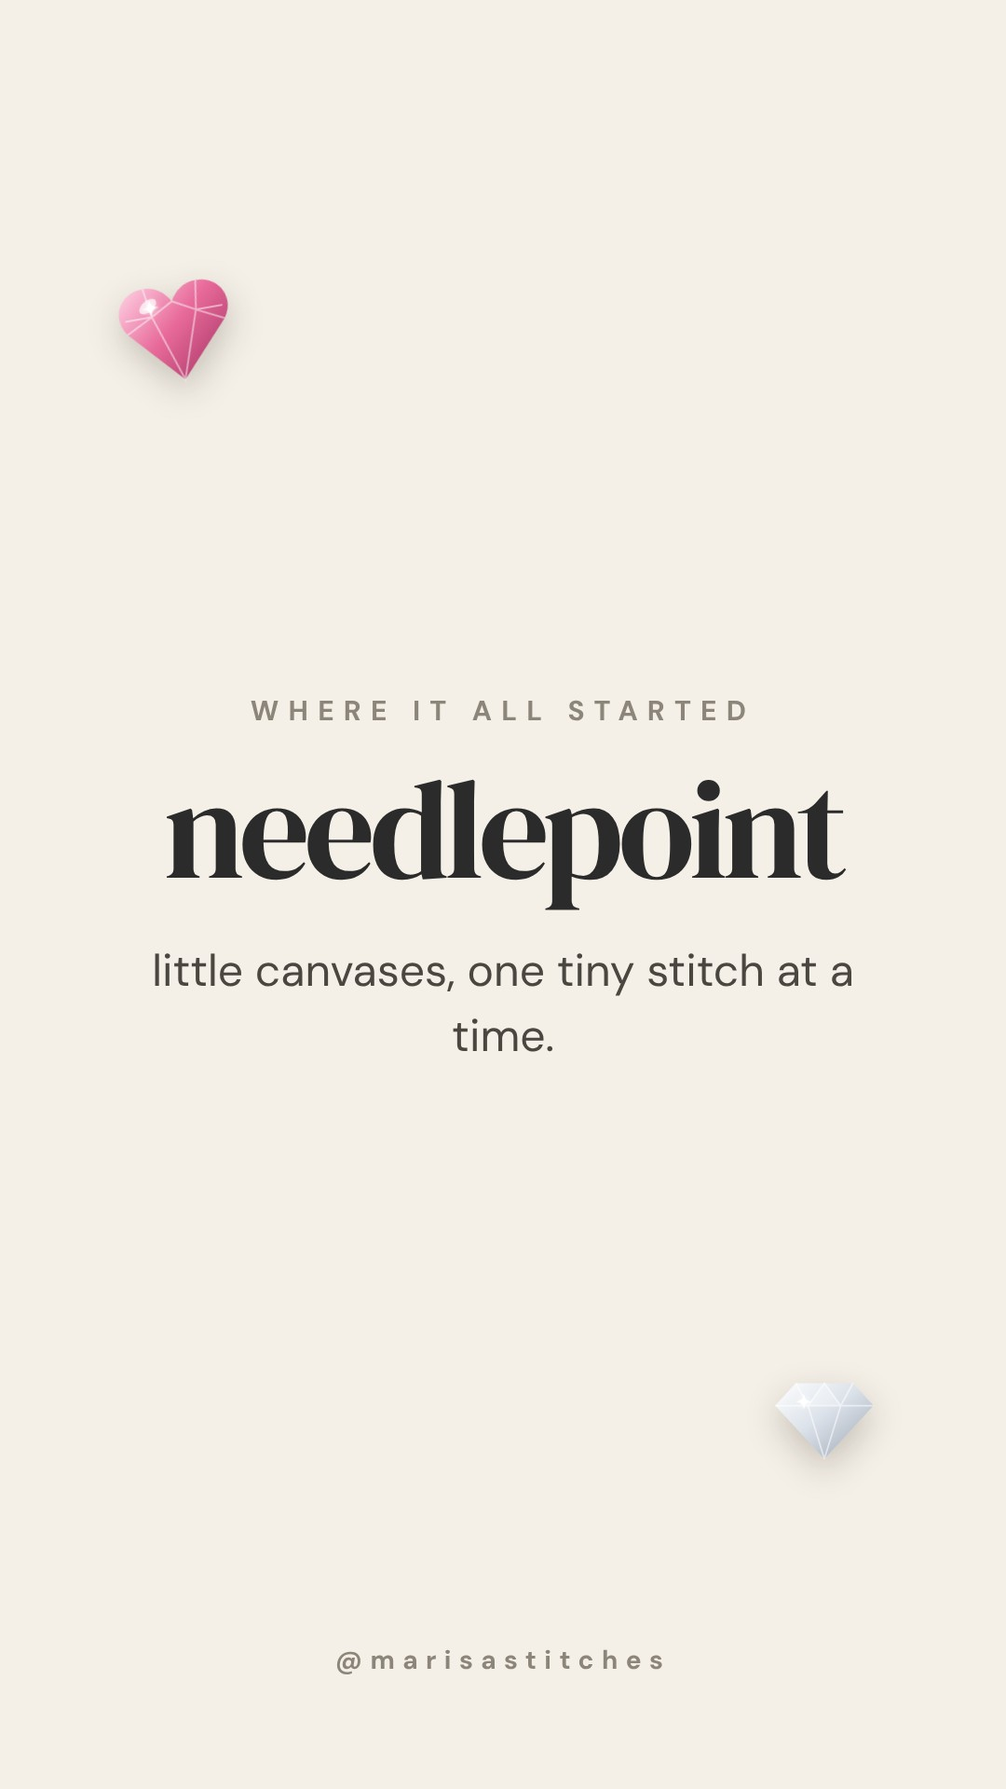
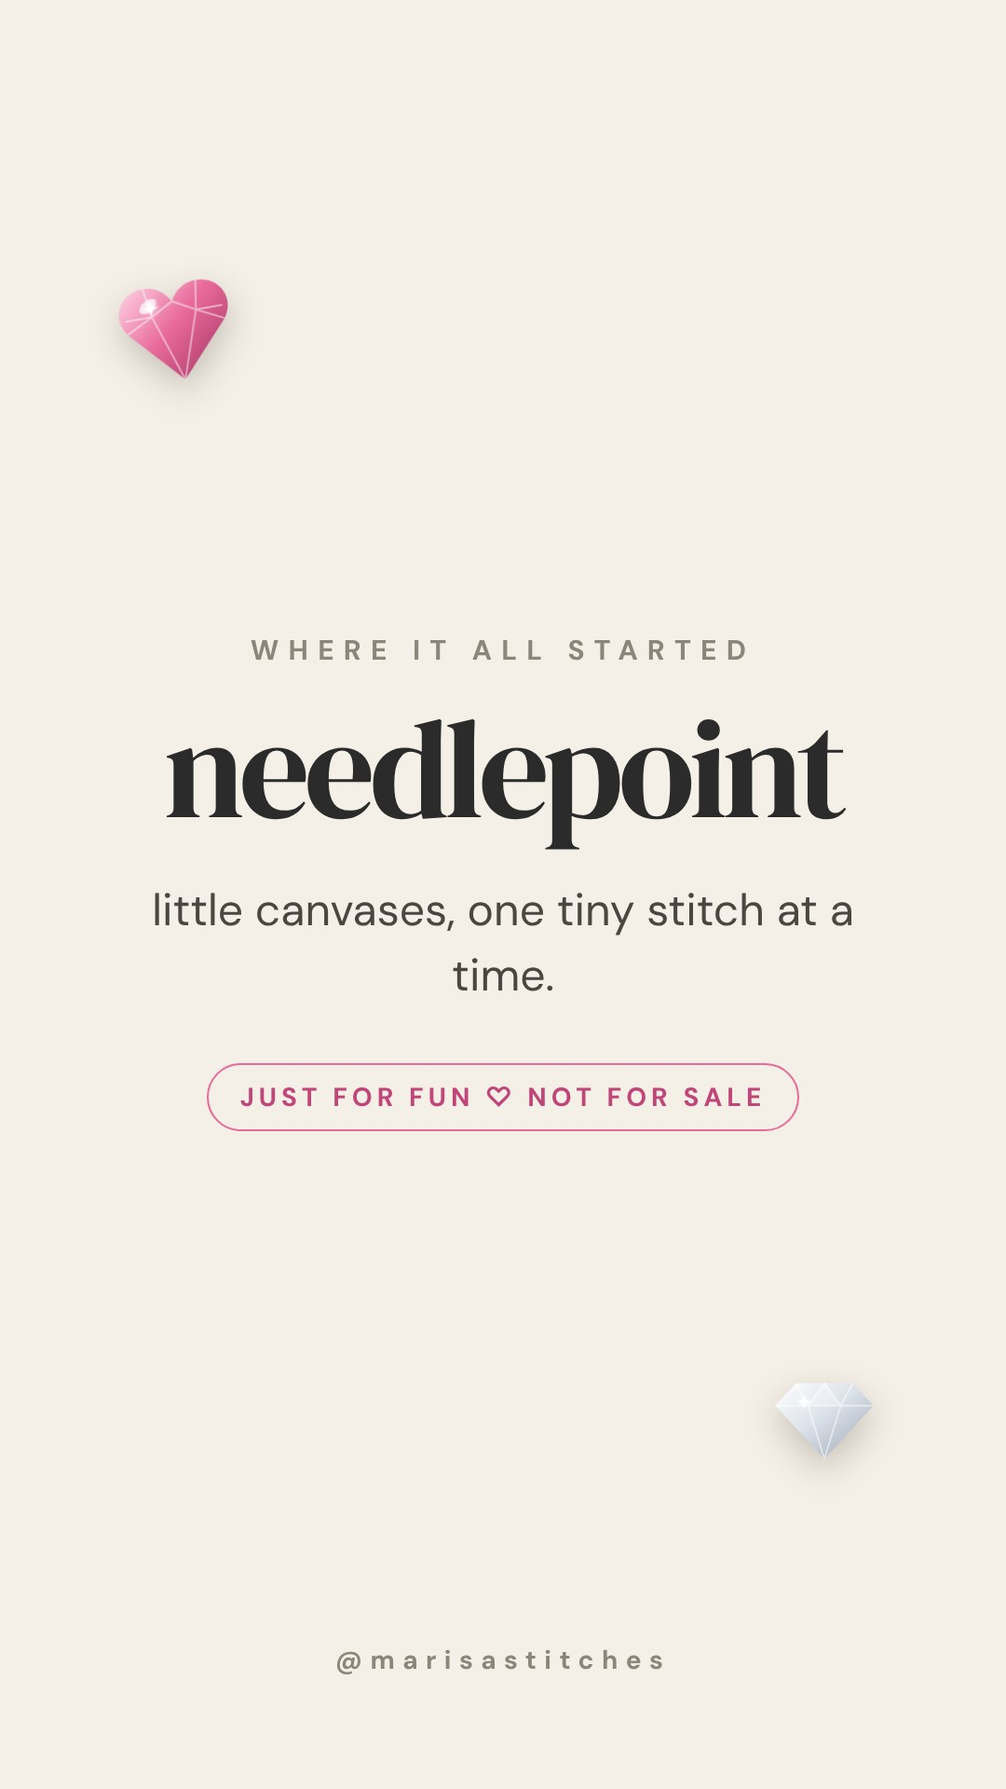
Stitches: 'just for fun, not for sale' on hobby highlights; account positioning in plan
Claude-Session: https://claude.ai/code/session_01CeoovJ21APbX2P2SCMoWFW

Changed region(s): [[0.1528, 0.3438, 0.8556, 0.625]]

diff --git a/stitches/highlights/stories.html b/stitches/highlights/stories.html
@@ -17,6 +17,7 @@
 .st .price b{display:block;font:400 150px/1 'DM Serif Display';color:#E86A9A}
 .st .price span{font:400 42px/1.4 'DM Sans'}
 .st .q{font:400 96px/1.08 'DM Serif Display';letter-spacing:-.03em;margin:0 0 50px}
+.st .tag{display:inline-block;margin-top:30px;padding:16px 34px;border:2px solid #E86A9A;border-radius:999px;font:700 28px 'DM Sans';letter-spacing:.18em;text-transform:uppercase;color:#C2457A}
 .stk{position:absolute;left:0;right:0;bottom:300px;font:700 26px 'DM Sans';letter-spacing:.2em;text-transform:uppercase;color:#B9B2A6;z-index:2}
 .ft{position:absolute;left:0;right:0;bottom:120px;font:700 28px 'DM Sans';letter-spacing:.3em;color:#8C857A}
 .ido.dark{background:#2A241F radial-gradient(circle at 50% 40%,#43362C,#2A241F 70%);color:#FBF7F0}
@@ -65,11 +66,11 @@
 <section id="s24" data-f="i-do/05_Kind-Words" data-n="1" class="s ido dark"><div class="frame"></div><div class="in"><p class="ik">kind words</p><p class="iq">“There is absolutely<br>no one better.”</p><p class="ip" style="font-size:46px">— Nick &amp; Hannah</p></div><div class="ft ido">@idobymarisa</div></section>
 <section id="s25" data-f="i-do/05_Kind-Words" data-n="2" class="s ido blush"><div class="frame"></div><div class="in"><p class="ik">kind words</p><p class="iq">“She made everyone laugh,<br>and you felt in on the<br>couple’s inside jokes!”</p><p class="ip" style="font-size:46px">— Catherine O’Gorman</p></div><div class="ft ido">@idobymarisa</div></section>
 <section id="s26" data-f="crafts/covers" data-n="05_needlepoint" class="s st"><div class="in" style="display:flex;flex-direction:column;align-items:center"><div style="position:relative;width:250px;height:357px"><svg viewBox="0 0 70 100" width="250" style="position:absolute;left:0px;top:0px;transform:rotate(0deg);filter:drop-shadow(0 14px 18px rgba(40,30,20,.22));overflow:visible"><defs><linearGradient id="g23" x1="0" y1="0" x2="1" y2="1"><stop offset="0" stop-color="#FFB3BF"/><stop offset=".45" stop-color="#C8203E"/><stop offset="1" stop-color="#6E0E21"/></linearGradient></defs><path d="M35 2C52 24 68 46 68 64a33 33 0 0 1-66 0C2 46 18 24 35 2z" fill="url(#g23)"/><path d="M35 2v62M35 64 6 52M35 64l29-12M35 64 14 88M35 64l21 24" stroke="#fff" stroke-opacity=".45" stroke-width="1.4"/><ellipse cx="22" cy="44" rx="6" ry="12" fill="#fff" fill-opacity=".45" transform="rotate(20 22 44)"/><g transform="translate(30 22) scale(.8)" style="filter:drop-shadow(0 0 4px #fff)"><path d="M0-10C1-3 3-1 10 0 3 1 1 3 0 10-1 3-3 1-10 0-3-1-1-3 0-10z" fill="#fff"/></g></svg></div><div style="font:400 150px/1 'DM Serif Display';letter-spacing:-.04em;margin-top:60px">needlepoint</div></div></section>
-<section id="s27" data-f="stitches/../crafts/stories/05_needlepoint" data-n="1" class="s st"><svg viewBox="0 0 100 92" width="120" style="position:absolute;left:130px;top:300px;transform:rotate(-10deg);filter:drop-shadow(0 14px 18px rgba(40,30,20,.22));overflow:visible"><defs><linearGradient id="g24" x1="0" y1="0" x2="1" y2="1"><stop offset="0" stop-color="#FFD3E4"/><stop offset=".45" stop-color="#E86A9A"/><stop offset="1" stop-color="#9E2E5F"/></linearGradient></defs><path d="M50 90 6 42C-6 26 4 4 26 4c11 0 19 6 24 15C55 10 63 4 74 4c22 0 32 22 20 38z" fill="url(#g24)"/><path d="M50 90 30 30 50 19 70 30zM6 42l24-12L26 4M94 42 70 30 74 4M30 30H6M70 30h24" fill="none" stroke="#fff" stroke-opacity=".5" stroke-width="1.6"/><ellipse cx="28" cy="20" rx="9" ry="5" fill="#fff" fill-opacity=".7" transform="rotate(-30 28 20)"/><g transform="translate(30 22) scale(.8)" style="filter:drop-shadow(0 0 4px #fff)"><path d="M0-10C1-3 3-1 10 0 3 1 1 3 0 10-1 3-3 1-10 0-3-1-1-3 0-10z" fill="#fff"/></g></svg><svg viewBox="0 0 100 80" width="110" style="position:absolute;left:830px;top:1480px;transform:rotate(0deg);filter:drop-shadow(0 14px 18px rgba(40,30,20,.22));overflow:visible"><defs><linearGradient id="g25" x1="0" y1="0" x2="1" y2="1"><stop offset="0" stop-color="#FFFFFF"/><stop offset=".45" stop-color="#DCE2EA"/><stop offset="1" stop-color="#9AA4B2"/></linearGradient></defs><path d="M22 4h56l20 22-48 52L2 26z" fill="url(#g25)"/><path d="M2 26h96M22 4l12 22 16 52M78 4 66 26 50 78M34 26 50 4l16 22" fill="none" stroke="#fff" stroke-opacity=".55" stroke-width="1.6"/><path d="M34 26 50 4 66 26z" fill="#fff" fill-opacity=".3"/><g transform="translate(30 22) scale(.8)" style="filter:drop-shadow(0 0 4px #fff)"><path d="M0-10C1-3 3-1 10 0 3 1 1 3 0 10-1 3-3 1-10 0-3-1-1-3 0-10z" fill="#fff"/></g></svg><div class="in"><p class="k">where it all started</p><h1 style="font-size:150px">needlepoint</h1><p class="p">little canvases, one tiny stitch at a time.</p></div><div class="ft">@marisastitches</div></section>
+<section id="s27" data-f="stitches/../crafts/stories/05_needlepoint" data-n="1" class="s st"><svg viewBox="0 0 100 92" width="120" style="position:absolute;left:130px;top:300px;transform:rotate(-10deg);filter:drop-shadow(0 14px 18px rgba(40,30,20,.22));overflow:visible"><defs><linearGradient id="g24" x1="0" y1="0" x2="1" y2="1"><stop offset="0" stop-color="#FFD3E4"/><stop offset=".45" stop-color="#E86A9A"/><stop offset="1" stop-color="#9E2E5F"/></linearGradient></defs><path d="M50 90 6 42C-6 26 4 4 26 4c11 0 19 6 24 15C55 10 63 4 74 4c22 0 32 22 20 38z" fill="url(#g24)"/><path d="M50 90 30 30 50 19 70 30zM6 42l24-12L26 4M94 42 70 30 74 4M30 30H6M70 30h24" fill="none" stroke="#fff" stroke-opacity=".5" stroke-width="1.6"/><ellipse cx="28" cy="20" rx="9" ry="5" fill="#fff" fill-opacity=".7" transform="rotate(-30 28 20)"/><g transform="translate(30 22) scale(.8)" style="filter:drop-shadow(0 0 4px #fff)"><path d="M0-10C1-3 3-1 10 0 3 1 1 3 0 10-1 3-3 1-10 0-3-1-1-3 0-10z" fill="#fff"/></g></svg><svg viewBox="0 0 100 80" width="110" style="position:absolute;left:830px;top:1480px;transform:rotate(0deg);filter:drop-shadow(0 14px 18px rgba(40,30,20,.22));overflow:visible"><defs><linearGradient id="g25" x1="0" y1="0" x2="1" y2="1"><stop offset="0" stop-color="#FFFFFF"/><stop offset=".45" stop-color="#DCE2EA"/><stop offset="1" stop-color="#9AA4B2"/></linearGradient></defs><path d="M22 4h56l20 22-48 52L2 26z" fill="url(#g25)"/><path d="M2 26h96M22 4l12 22 16 52M78 4 66 26 50 78M34 26 50 4l16 22" fill="none" stroke="#fff" stroke-opacity=".55" stroke-width="1.6"/><path d="M34 26 50 4 66 26z" fill="#fff" fill-opacity=".3"/><g transform="translate(30 22) scale(.8)" style="filter:drop-shadow(0 0 4px #fff)"><path d="M0-10C1-3 3-1 10 0 3 1 1 3 0 10-1 3-3 1-10 0-3-1-1-3 0-10z" fill="#fff"/></g></svg><div class="in"><p class="k">where it all started</p><h1 style="font-size:150px">needlepoint</h1><p class="p">little canvases, one tiny stitch at a time.</p><p class="tag">just for fun ♡ not for sale</p></div><div class="ft">@marisastitches</div></section>
 <section id="s28" data-f="crafts/covers" data-n="06_hand-stitched" class="s st"><div class="in" style="display:flex;flex-direction:column;align-items:center"><div style="position:relative;width:400px;height:368px"><svg viewBox="0 0 100 92" width="400" style="position:absolute;left:0px;top:0px;transform:rotate(0deg);filter:drop-shadow(0 14px 18px rgba(40,30,20,.22));overflow:visible"><defs><linearGradient id="g26" x1="0" y1="0" x2="1" y2="1"><stop offset="0" stop-color="#E5D9FF"/><stop offset=".45" stop-color="#8E6CD8"/><stop offset="1" stop-color="#4A3187"/></linearGradient></defs><path d="M50 90 6 42C-6 26 4 4 26 4c11 0 19 6 24 15C55 10 63 4 74 4c22 0 32 22 20 38z" fill="url(#g26)"/><path d="M50 90 30 30 50 19 70 30zM6 42l24-12L26 4M94 42 70 30 74 4M30 30H6M70 30h24" fill="none" stroke="#fff" stroke-opacity=".5" stroke-width="1.6"/><ellipse cx="28" cy="20" rx="9" ry="5" fill="#fff" fill-opacity=".7" transform="rotate(-30 28 20)"/><g transform="translate(30 22) scale(.8)" style="filter:drop-shadow(0 0 4px #fff)"><path d="M0-10C1-3 3-1 10 0 3 1 1 3 0 10-1 3-3 1-10 0-3-1-1-3 0-10z" fill="#fff"/></g></svg></div><div style="font:400 170px/1 'DM Serif Display';letter-spacing:-.04em;margin-top:60px">by hand</div></div></section>
-<section id="s29" data-f="stitches/../crafts/stories/06_hand-stitched" data-n="1" class="s st"><svg viewBox="0 0 60 100" width="60" style="position:absolute;left:860px;top:320px;transform:rotate(20deg);filter:drop-shadow(0 14px 18px rgba(40,30,20,.22));overflow:visible"><defs><linearGradient id="g27" x1="0" y1="0" x2="1" y2="1"><stop offset="0" stop-color="#FFF2C4"/><stop offset=".45" stop-color="#E9B949"/><stop offset="1" stop-color="#93661A"/></linearGradient></defs><path d="M30 2c22 24 26 72 0 96C4 74 8 26 30 2z" fill="url(#g27)"/><path d="M30 2v96M30 50 8 30M30 50l22-20M30 50 8 70M30 50l22 20" stroke="#fff" stroke-opacity=".45" stroke-width="1.4"/><g transform="translate(30 22) scale(.8)" style="filter:drop-shadow(0 0 4px #fff)"><path d="M0-10C1-3 3-1 10 0 3 1 1 3 0 10-1 3-3 1-10 0-3-1-1-3 0-10z" fill="#fff"/></g></svg><svg viewBox="0 0 100 70" width="130" style="position:absolute;left:130px;top:1460px;transform:rotate(-8deg);filter:drop-shadow(0 14px 18px rgba(40,30,20,.22));overflow:visible"><defs><linearGradient id="g28" x1="0" y1="0" x2="1" y2="1"><stop offset="0" stop-color="#B6F0CC"/><stop offset=".45" stop-color="#1FA35B"/><stop offset="1" stop-color="#0B5A31"/></linearGradient></defs><path d="M16 2h68l14 14v38L84 68H16L2 54V16z" fill="url(#g28)"/><path d="M28 14h44l8 8v26l-8 8H28l-8-8V22z" fill="#fff" fill-opacity=".15" stroke="#fff" stroke-opacity=".5" stroke-width="1.4"/><path d="M30 18h20l-8 10H26z" fill="#fff" fill-opacity=".45"/><g transform="translate(30 22) scale(.8)" style="filter:drop-shadow(0 0 4px #fff)"><path d="M0-10C1-3 3-1 10 0 3 1 1 3 0 10-1 3-3 1-10 0-3-1-1-3 0-10z" fill="#fff"/></g></svg><div class="in"><p class="k">hand embroidery</p><h1 style="font-size:150px">by hand</h1><p class="p">no machine. just a hoop,<br>a needle and a playlist.</p></div><div class="ft">@marisastitches</div></section>
+<section id="s29" data-f="stitches/../crafts/stories/06_hand-stitched" data-n="1" class="s st"><svg viewBox="0 0 60 100" width="60" style="position:absolute;left:860px;top:320px;transform:rotate(20deg);filter:drop-shadow(0 14px 18px rgba(40,30,20,.22));overflow:visible"><defs><linearGradient id="g27" x1="0" y1="0" x2="1" y2="1"><stop offset="0" stop-color="#FFF2C4"/><stop offset=".45" stop-color="#E9B949"/><stop offset="1" stop-color="#93661A"/></linearGradient></defs><path d="M30 2c22 24 26 72 0 96C4 74 8 26 30 2z" fill="url(#g27)"/><path d="M30 2v96M30 50 8 30M30 50l22-20M30 50 8 70M30 50l22 20" stroke="#fff" stroke-opacity=".45" stroke-width="1.4"/><g transform="translate(30 22) scale(.8)" style="filter:drop-shadow(0 0 4px #fff)"><path d="M0-10C1-3 3-1 10 0 3 1 1 3 0 10-1 3-3 1-10 0-3-1-1-3 0-10z" fill="#fff"/></g></svg><svg viewBox="0 0 100 70" width="130" style="position:absolute;left:130px;top:1460px;transform:rotate(-8deg);filter:drop-shadow(0 14px 18px rgba(40,30,20,.22));overflow:visible"><defs><linearGradient id="g28" x1="0" y1="0" x2="1" y2="1"><stop offset="0" stop-color="#B6F0CC"/><stop offset=".45" stop-color="#1FA35B"/><stop offset="1" stop-color="#0B5A31"/></linearGradient></defs><path d="M16 2h68l14 14v38L84 68H16L2 54V16z" fill="url(#g28)"/><path d="M28 14h44l8 8v26l-8 8H28l-8-8V22z" fill="#fff" fill-opacity=".15" stroke="#fff" stroke-opacity=".5" stroke-width="1.4"/><path d="M30 18h20l-8 10H26z" fill="#fff" fill-opacity=".45"/><g transform="translate(30 22) scale(.8)" style="filter:drop-shadow(0 0 4px #fff)"><path d="M0-10C1-3 3-1 10 0 3 1 1 3 0 10-1 3-3 1-10 0-3-1-1-3 0-10z" fill="#fff"/></g></svg><div class="in"><p class="k">hand embroidery</p><h1 style="font-size:150px">by hand</h1><p class="p">no machine. just a hoop,<br>a needle and a playlist.</p><p class="tag">just for fun ♡ not for sale</p></div><div class="ft">@marisastitches</div></section>
 <section id="s30" data-f="crafts/covers" data-n="07_quilting" class="s st"><div class="in" style="display:flex;flex-direction:column;align-items:center"><div style="position:relative;width:420px;height:294px"><svg viewBox="0 0 100 70" width="420" style="position:absolute;left:0px;top:0px;transform:rotate(0deg);filter:drop-shadow(0 14px 18px rgba(40,30,20,.22));overflow:visible"><defs><linearGradient id="g29" x1="0" y1="0" x2="1" y2="1"><stop offset="0" stop-color="#B6F0CC"/><stop offset=".45" stop-color="#1FA35B"/><stop offset="1" stop-color="#0B5A31"/></linearGradient></defs><path d="M16 2h68l14 14v38L84 68H16L2 54V16z" fill="url(#g29)"/><path d="M28 14h44l8 8v26l-8 8H28l-8-8V22z" fill="#fff" fill-opacity=".15" stroke="#fff" stroke-opacity=".5" stroke-width="1.4"/><path d="M30 18h20l-8 10H26z" fill="#fff" fill-opacity=".45"/><g transform="translate(30 22) scale(.8)" style="filter:drop-shadow(0 0 4px #fff)"><path d="M0-10C1-3 3-1 10 0 3 1 1 3 0 10-1 3-3 1-10 0-3-1-1-3 0-10z" fill="#fff"/></g></svg></div><div style="font:400 170px/1 'DM Serif Display';letter-spacing:-.04em;margin-top:60px">quilting</div></div></section>
-<section id="s31" data-f="stitches/../crafts/stories/07_quilting" data-n="1" class="s st"><svg viewBox="0 0 100 92" width="120" style="position:absolute;left:830px;top:300px;transform:rotate(10deg);filter:drop-shadow(0 14px 18px rgba(40,30,20,.22));overflow:visible"><defs><linearGradient id="g30" x1="0" y1="0" x2="1" y2="1"><stop offset="0" stop-color="#BFD8FF"/><stop offset=".45" stop-color="#2F6FD6"/><stop offset="1" stop-color="#173C86"/></linearGradient></defs><path d="M50 90 6 42C-6 26 4 4 26 4c11 0 19 6 24 15C55 10 63 4 74 4c22 0 32 22 20 38z" fill="url(#g30)"/><path d="M50 90 30 30 50 19 70 30zM6 42l24-12L26 4M94 42 70 30 74 4M30 30H6M70 30h24" fill="none" stroke="#fff" stroke-opacity=".5" stroke-width="1.6"/><ellipse cx="28" cy="20" rx="9" ry="5" fill="#fff" fill-opacity=".7" transform="rotate(-30 28 20)"/><g transform="translate(30 22) scale(.8)" style="filter:drop-shadow(0 0 4px #fff)"><path d="M0-10C1-3 3-1 10 0 3 1 1 3 0 10-1 3-3 1-10 0-3-1-1-3 0-10z" fill="#fff"/></g></svg><svg viewBox="0 0 70 100" width="80" style="position:absolute;left:150px;top:1480px;transform:rotate(-12deg);filter:drop-shadow(0 14px 18px rgba(40,30,20,.22));overflow:visible"><defs><linearGradient id="g31" x1="0" y1="0" x2="1" y2="1"><stop offset="0" stop-color="#FFB3BF"/><stop offset=".45" stop-color="#C8203E"/><stop offset="1" stop-color="#6E0E21"/></linearGradient></defs><path d="M35 2C52 24 68 46 68 64a33 33 0 0 1-66 0C2 46 18 24 35 2z" fill="url(#g31)"/><path d="M35 2v62M35 64 6 52M35 64l29-12M35 64 14 88M35 64l21 24" stroke="#fff" stroke-opacity=".45" stroke-width="1.4"/><ellipse cx="22" cy="44" rx="6" ry="12" fill="#fff" fill-opacity=".45" transform="rotate(20 22 44)"/><g transform="translate(30 22) scale(.8)" style="filter:drop-shadow(0 0 4px #fff)"><path d="M0-10C1-3 3-1 10 0 3 1 1 3 0 10-1 3-3 1-10 0-3-1-1-3 0-10z" fill="#fff"/></g></svg><div class="in"><p class="k">the newest hobby</p><h1 style="font-size:150px">quilting</h1><p class="p">learning to quilt.<br>the hobbies will not stop.</p></div><div class="ft">@marisastitches</div></section>
+<section id="s31" data-f="stitches/../crafts/stories/07_quilting" data-n="1" class="s st"><svg viewBox="0 0 100 92" width="120" style="position:absolute;left:830px;top:300px;transform:rotate(10deg);filter:drop-shadow(0 14px 18px rgba(40,30,20,.22));overflow:visible"><defs><linearGradient id="g30" x1="0" y1="0" x2="1" y2="1"><stop offset="0" stop-color="#BFD8FF"/><stop offset=".45" stop-color="#2F6FD6"/><stop offset="1" stop-color="#173C86"/></linearGradient></defs><path d="M50 90 6 42C-6 26 4 4 26 4c11 0 19 6 24 15C55 10 63 4 74 4c22 0 32 22 20 38z" fill="url(#g30)"/><path d="M50 90 30 30 50 19 70 30zM6 42l24-12L26 4M94 42 70 30 74 4M30 30H6M70 30h24" fill="none" stroke="#fff" stroke-opacity=".5" stroke-width="1.6"/><ellipse cx="28" cy="20" rx="9" ry="5" fill="#fff" fill-opacity=".7" transform="rotate(-30 28 20)"/><g transform="translate(30 22) scale(.8)" style="filter:drop-shadow(0 0 4px #fff)"><path d="M0-10C1-3 3-1 10 0 3 1 1 3 0 10-1 3-3 1-10 0-3-1-1-3 0-10z" fill="#fff"/></g></svg><svg viewBox="0 0 70 100" width="80" style="position:absolute;left:150px;top:1480px;transform:rotate(-12deg);filter:drop-shadow(0 14px 18px rgba(40,30,20,.22));overflow:visible"><defs><linearGradient id="g31" x1="0" y1="0" x2="1" y2="1"><stop offset="0" stop-color="#FFB3BF"/><stop offset=".45" stop-color="#C8203E"/><stop offset="1" stop-color="#6E0E21"/></linearGradient></defs><path d="M35 2C52 24 68 46 68 64a33 33 0 0 1-66 0C2 46 18 24 35 2z" fill="url(#g31)"/><path d="M35 2v62M35 64 6 52M35 64l29-12M35 64 14 88M35 64l21 24" stroke="#fff" stroke-opacity=".45" stroke-width="1.4"/><ellipse cx="22" cy="44" rx="6" ry="12" fill="#fff" fill-opacity=".45" transform="rotate(20 22 44)"/><g transform="translate(30 22) scale(.8)" style="filter:drop-shadow(0 0 4px #fff)"><path d="M0-10C1-3 3-1 10 0 3 1 1 3 0 10-1 3-3 1-10 0-3-1-1-3 0-10z" fill="#fff"/></g></svg><div class="in"><p class="k">the newest hobby</p><h1 style="font-size:150px">quilting</h1><p class="p">learning to quilt.<br>the hobbies will not stop.</p><p class="tag">just for fun ♡ not for sale</p></div><div class="ft">@marisastitches</div></section>
 <section id="s32" data-f="crafts/covers" data-n="08_wips" class="s st"><div class="in" style="display:flex;flex-direction:column;align-items:center"><div style="position:relative;width:170px;height:283px"><svg viewBox="0 0 60 100" width="170" style="position:absolute;left:0px;top:0px;transform:rotate(0deg);filter:drop-shadow(0 14px 18px rgba(40,30,20,.22));overflow:visible"><defs><linearGradient id="g32" x1="0" y1="0" x2="1" y2="1"><stop offset="0" stop-color="#FFF2C4"/><stop offset=".45" stop-color="#E9B949"/><stop offset="1" stop-color="#93661A"/></linearGradient></defs><path d="M30 2c22 24 26 72 0 96C4 74 8 26 30 2z" fill="url(#g32)"/><path d="M30 2v96M30 50 8 30M30 50l22-20M30 50 8 70M30 50l22 20" stroke="#fff" stroke-opacity=".45" stroke-width="1.4"/><g transform="translate(30 22) scale(.8)" style="filter:drop-shadow(0 0 4px #fff)"><path d="M0-10C1-3 3-1 10 0 3 1 1 3 0 10-1 3-3 1-10 0-3-1-1-3 0-10z" fill="#fff"/></g></svg></div><div style="font:400 170px/1 'DM Serif Display';letter-spacing:-.04em;margin-top:60px">wips</div></div></section>
 <section id="s33" data-f="stitches/../crafts/stories/08_wips" data-n="1" class="s st"><svg viewBox="0 0 100 80" width="120" style="position:absolute;left:130px;top:320px;transform:rotate(0deg);filter:drop-shadow(0 14px 18px rgba(40,30,20,.22));overflow:visible"><defs><linearGradient id="g33" x1="0" y1="0" x2="1" y2="1"><stop offset="0" stop-color="#E5D9FF"/><stop offset=".45" stop-color="#8E6CD8"/><stop offset="1" stop-color="#4A3187"/></linearGradient></defs><path d="M22 4h56l20 22-48 52L2 26z" fill="url(#g33)"/><path d="M2 26h96M22 4l12 22 16 52M78 4 66 26 50 78M34 26 50 4l16 22" fill="none" stroke="#fff" stroke-opacity=".55" stroke-width="1.6"/><path d="M34 26 50 4 66 26z" fill="#fff" fill-opacity=".3"/><g transform="translate(30 22) scale(.8)" style="filter:drop-shadow(0 0 4px #fff)"><path d="M0-10C1-3 3-1 10 0 3 1 1 3 0 10-1 3-3 1-10 0-3-1-1-3 0-10z" fill="#fff"/></g></svg><svg viewBox="0 0 100 92" width="110" style="position:absolute;left:840px;top:1470px;transform:rotate(8deg);filter:drop-shadow(0 14px 18px rgba(40,30,20,.22));overflow:visible"><defs><linearGradient id="g34" x1="0" y1="0" x2="1" y2="1"><stop offset="0" stop-color="#FFD3E4"/><stop offset=".45" stop-color="#E86A9A"/><stop offset="1" stop-color="#9E2E5F"/></linearGradient></defs><path d="M50 90 6 42C-6 26 4 4 26 4c11 0 19 6 24 15C55 10 63 4 74 4c22 0 32 22 20 38z" fill="url(#g34)"/><path d="M50 90 30 30 50 19 70 30zM6 42l24-12L26 4M94 42 70 30 74 4M30 30H6M70 30h24" fill="none" stroke="#fff" stroke-opacity=".5" stroke-width="1.6"/><ellipse cx="28" cy="20" rx="9" ry="5" fill="#fff" fill-opacity=".7" transform="rotate(-30 28 20)"/><g transform="translate(30 22) scale(.8)" style="filter:drop-shadow(0 0 4px #fff)"><path d="M0-10C1-3 3-1 10 0 3 1 1 3 0 10-1 3-3 1-10 0-3-1-1-3 0-10z" fill="#fff"/></g></svg><div class="in"><p class="k">works in progress</p><h1 style="font-size:150px">on the hoop</h1><p class="p">half-finished, fully loved.<br>come see what’s on the hoop.</p></div><div class="ft">@marisastitches</div></section>
 </body></html>

diff --git a/stitches/highlights/stories.py b/stitches/highlights/stories.py
@@ -101,7 +101,7 @@ CRAFTS = [('05_needlepoint', 'needlepoint', 'pear', 'ruby', 250, 'where it all s
 for fn, word, shape, g, w, kick, line, extra in CRAFTS:
     cover(fn, word, shape, g, w)
     title = {'wips': 'on the hoop', 'by hand': 'by hand'}.get(word, word)
-    st('../crafts/stories/' + fn, '1', K(kick) + H(title) + P(line), ''.join(gem(*e) for e in extra))
+    st('../crafts/stories/' + fn, '1', K(kick) + H(title) + P(line) + ('' if word == 'wips' else '<p class="tag">just for fun ♡ not for sale</p>'), ''.join(gem(*e) for e in extra))
 
 CSS = """
 *{box-sizing:border-box}body{margin:0;background:#777}
@@ -122,6 +122,7 @@ CSS = """
 .st .price b{display:block;font:400 150px/1 'DM Serif Display';color:#E86A9A}
 .st .price span{font:400 42px/1.4 'DM Sans'}
 .st .q{font:400 96px/1.08 'DM Serif Display';letter-spacing:-.03em;margin:0 0 50px}
+.st .tag{display:inline-block;margin-top:30px;padding:16px 34px;border:2px solid #E86A9A;border-radius:999px;font:700 28px 'DM Sans';letter-spacing:.18em;text-transform:uppercase;color:#C2457A}
 .stk{position:absolute;left:0;right:0;bottom:300px;font:700 26px 'DM Sans';letter-spacing:.2em;text-transform:uppercase;color:#B9B2A6;z-index:2}
 .ft{position:absolute;left:0;right:0;bottom:120px;font:700 28px 'DM Sans';letter-spacing:.3em;color:#8C857A}
 .ido.dark{background:#2A241F radial-gradient(circle at 50% 40%,#43362C,#2A241F 70%);color:#FBF7F0}

diff --git a/stitches/PLAN.md b/stitches/PLAN.md
@@ -27,6 +27,13 @@
 
 **What this tells us:** your system is already efficient, and it's built so the business can stay small. Any growth should keep it that way: few new things, each one easy to repeat.
 
+## The account: a creative home, one product
+@marisastitches is where Marisa posts all her making (needlepoint, hand embroidery, quilting, works in progress) because that's how it started and what keeps it fun. **The only thing for sale is custom machine embroidery.**
+- Hobby highlights (needlepoint, by hand, quilting) carry a "just for fun ♡ not for sale" tag.
+- Hobby captions end with: *"just for me, not for sale ♡ custom machine embroidery orders → link in bio"*
+- FAQ line: *"Do you sell needlepoint or hand embroidery? Not right now. Those are just for fun! I only take custom machine embroidery orders."*
+- Bio: *custom machine embroidery 🪡 + whatever else I'm stitching for fun · Clinton Twp, MI*
+
 ## The big idea: Stitches makes the I Do merch
 The "By the power vested in me" hat and the "I marry people." tote don't need Printify. Stitch them yourself.
 - **The math:** a blank hat costs about $6–9 at wholesale. With your $15 placement fee, that's roughly $21–24 of cost and labor, and it sells at about $34. Printify's embroidered hat alone costs about $18–31.
